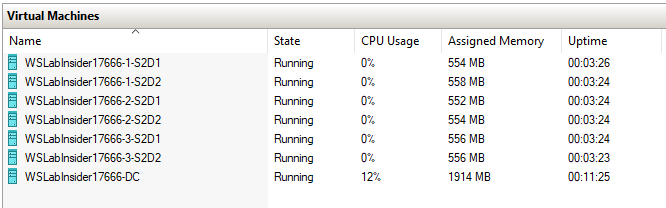
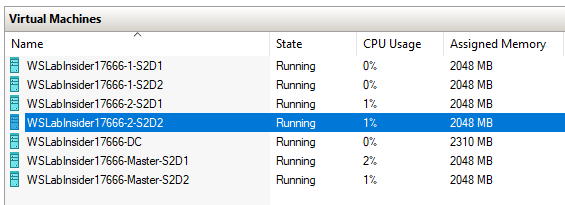
fix
Former-commit-id: 5f70e320fceb376410757e5018534b965bc6aa56

diff --git a/Scenarios/S2D and Cluster Sets/readme.md b/Scenarios/S2D and Cluster Sets/readme.md
@@ -21,9 +21,9 @@ Note: Nested virtualization is commented (it slows down the environment)
 $LabConfig=@{ DomainAdminName='LabAdmin'; AdminPassword='LS1setup!'; Prefix = 'WSLabInsider17666-'; SwitchName = 'LabSwitch'; DCEdition='4'; PullServerDC=$false ; Internet=$false ;AdditionalNetworksConfig=@(); VMs=@(); ServerVHDs=@()}
 
 #HyperConverged Clusters
-1..2 | ForEach-Object {$VMNames="1-S2D"; $LABConfig.VMs += @{ VMName = "$VMNames$_" ; Configuration = 'S2D' ; ParentVHD = 'Win2019Core_17666.vhdx'; SSDNumber = 0; SSDSize=800GB ; HDDNumber = 12; HDDSize= 4TB ; MemoryStartupBytes= 2GB ; Unattend='DjoinCred' ; <#NestedVirt=$True#>}}
-1..2 | ForEach-Object {$VMNames="2-S2D"; $LABConfig.VMs += @{ VMName = "$VMNames$_" ; Configuration = 'S2D' ; ParentVHD = 'Win2019Core_17666.vhdx'; SSDNumber = 0; SSDSize=800GB ; HDDNumber = 12; HDDSize= 4TB ; MemoryStartupBytes= 2GB ; Unattend='DjoinCred'; <#NestedVirt=$True#>}}
-1..2 | ForEach-Object {$VMNames="3-S2D"; $LABConfig.VMs += @{ VMName = "$VMNames$_" ; Configuration = 'S2D' ; ParentVHD = 'Win2019Core_17666.vhdx'; SSDNumber = 0; SSDSize=800GB ; HDDNumber = 12; HDDSize= 4TB ; MemoryStartupBytes= 2GB ; Unattend='DjoinCred'; <#NestedVirt=$True#>}}
+1..2 | ForEach-Object {$VMNames="Master-S2D"; $LABConfig.VMs += @{ VMName = "$VMNames$_" ; Configuration = 'S2D' ; ParentVHD = 'Win2019Core_17666.vhdx'; SSDNumber = 0; SSDSize=800GB ; HDDNumber = 12; HDDSize= 4TB ; MemoryStartupBytes= 2GB ; Unattend='DjoinCred' ; <#NestedVirt=$True#>}}
+1..2 | ForEach-Object {$VMNames="1-S2D"; $LABConfig.VMs += @{ VMName = "$VMNames$_" ; Configuration = 'S2D' ; ParentVHD = 'Win2019Core_17666.vhdx'; SSDNumber = 0; SSDSize=800GB ; HDDNumber = 12; HDDSize= 4TB ; MemoryStartupBytes= 2GB ; Unattend='DjoinCred'; NestedVirt=$True}}
+1..2 | ForEach-Object {$VMNames="2-S2D"; $LABConfig.VMs += @{ VMName = "$VMNames$_" ; Configuration = 'S2D' ; ParentVHD = 'Win2019Core_17666.vhdx'; SSDNumber = 0; SSDSize=800GB ; HDDNumber = 12; HDDSize= 4TB ; MemoryStartupBytes= 2GB ; Unattend='DjoinCred'; NestedVirt=$True}}
  
 $LabConfig.ServerVHDs += @{
     Edition="4"
@@ -48,9 +48,9 @@ Run following code to create 3 HyperConverged clusters. Note: it's way simplifie
 #Labconfig
     #clusterconfig
     $Clusters=@()
-    $Clusters+=@{Nodes="1-S2D1","1-S2D2" ; Name="Cluster1" ; IP="10.0.0.211" ; Volumenames="CL1Mirror1","CL1Mirror2" ; VolumeSize=2TB}
-    $Clusters+=@{Nodes="2-S2D1","2-S2D2" ; Name="Cluster2" ; IP="10.0.0.212" ; Volumenames="CL2Mirror1","CL2Mirror2" ; VolumeSize=2TB}
-    $Clusters+=@{Nodes="3-S2D1","3-S2D2" ; Name="Cluster3" ; IP="10.0.0.213" ; Volumenames="CL3Mirror1","CL3Mirror2" ; VolumeSize=2TB}
+    $Clusters+=@{Nodes="Master-S2D1","Master-S2D2" ; Name="MasterCluster" ; IP="10.0.0.211" ; Volumenames="MCMirror1","MCMirror2" ; VolumeSize=2TB}
+    $Clusters+=@{Nodes="1-S2D1","1-S2D2" ; Name="Cluster1" ; IP="10.0.0.212" ; Volumenames="CL1Mirror1","CL1Mirror2" ; VolumeSize=2TB}
+    $Clusters+=@{Nodes="2-S2D1","2-S2D2" ; Name="Cluster2" ; IP="10.0.0.213" ; Volumenames="CL2Mirror1","CL2Mirror2" ; VolumeSize=2TB}
 
     #ask for parent vhdx (choose nanoserver preferably - it's small)
         [reflection.assembly]::loadwithpartialname("System.Windows.Forms")
@@ -79,7 +79,7 @@ Run following code to create 3 HyperConverged clusters. Note: it's way simplifie
         Install-WindowsFeature -Name "Failover-Clustering","Hyper-V-PowerShell","Hyper-V","Failover-Clustering"
     }
 
-#reboot servers
+#reboot servers to finish Hyper-V install
     Restart-Computer $clusters.nodes -Protocol WSMan -Wait -For PowerShell
     start-sleep 20 #failsafe
 
@@ -120,7 +120,7 @@ Run following code to create 3 HyperConverged clusters. Note: it's way simplifie
         $VMName="$($Cluster.Name)_VM1"
         $VolumeName=$Cluster.VolumeNames[0]
         New-Item -Path "\\$($Cluster.Name)\ClusterStorage$\$VolumeName\$VMName\Virtual Hard Disks" -ItemType Directory
-        Copy-Item -Path $VHDPath -Destination "\\$($Cluster.Name)\ClusterStorage$\$($Volumenames[0])\$VMName\Virtual Hard Disks\$($VMName)_Disk1.vhdx"
+        Copy-Item -Path $VHDPath -Destination "\\$($Cluster.Name)\ClusterStorage$\$VolumeName\$VMName\Virtual Hard Disks\$($VMName)_Disk1.vhdx"
         New-VM -Name $VMName -MemoryStartupBytes 256MB -Generation 2 -Path "c:\ClusterStorage\$VolumeName" -VHDPath "c:\ClusterStorage\$VolumeName\$VMName\Virtual Hard Disks\$($VMName)_Disk1.vhdx" -ComputerName $Cluster.Nodes[0]
         #Start-VM -name $VMName -ComputerName $Cluster.Nodes[0]
         Add-ClusterVirtualMachineRole -VMName $VMName -Cluster $Cluster.Name
@@ -130,7 +130,7 @@ Run following code to create 3 HyperConverged clusters. Note: it's way simplifie
         New-Item -Path "\\$($Cluster.Name)\ClusterStorage$\$VolumeName\$VMName\Virtual Hard Disks" -ItemType Directory
         Copy-Item -Path $VHDPath -Destination "\\$($Cluster.Name)\ClusterStorage$\$VolumeName\$VMName\Virtual Hard Disks\$($VMName)_Disk1.vhdx"
         New-VM -Name $VMName -MemoryStartupBytes 256MB -Generation 2 -Path "c:\ClusterStorage\$VolumeName" -VHDPath "c:\ClusterStorage\$VolumeName\$VMName\Virtual Hard Disks\$($VMName)_Disk1.vhdx" -ComputerName $Cluster.Nodes[1]
-        #Start-VM -name $VMName -ComputerName $Cluster.Nodes[0]
+        Start-VM -name $VMName -ComputerName $Cluster.Nodes[0]
         Add-ClusterVirtualMachineRole -VMName $VMName -Cluster $Cluster.Name
     }
  
@@ -144,13 +144,37 @@ In following lab will be 3 clusters. 2 Clusters contain storage (Storage Spaces 
 
 ## The Lab
 
-Let's create Cluster Set master on Cluster1 and let's add Cluster2 and Cluster3
+Let's create Cluster Set master on "MasterCluster"
 
 ````PowerShell
-New-ClusterSet -name MyClusterSet -NamespaceRoot CL1-SOFS -CimSession Cluster1
-Add-ClusterSetMember -ClusterName Cluster2 -CimSession MyClusterSet -InfraSOFSName CL2-SOFS
-Add-ClusterSetMember -ClusterName Cluster3 -CimSession MyClusterSet -InfraSOFSName CL3-SOFS
+New-ClusterSet -name MyClusterSet -NamespaceRoot MC-SOFS -CimSession MasterCluster -StaticAddress "10.0.0.210"
  
 ````
 
 ![](/Scenarios/S2D%20and%20Cluster%20Sets/Screenshots/ClusterSetCreated.png)
+
+![](/Scenarios/S2D%20and%20Cluster%20Sets/Screenshots/ScaleoutMaster.png)
+
+![](/Scenarios/S2D%20and%20Cluster%20Sets/Screenshots/InfraFS.png)
+
+And let's add Cluster1 and Cluster2
+
+````PowerShell
+Add-ClusterSetMember -ClusterName Cluster1 -CimSession MyClusterSet -InfraSOFSName CL1-SOFS
+Add-ClusterSetMember -ClusterName Cluster2 -CimSession MyClusterSet -InfraSOFSName CL2-SOFS
+ 
+````
+
+![](/Scenarios/S2D%20and%20Cluster%20Sets/Screenshots/ClusterMembersAdded.png)
+
+![](/Scenarios/S2D%20and%20Cluster%20Sets/Screenshots/InfraFSCl1.png)
+
+![](/Scenarios/S2D%20and%20Cluster%20Sets/Screenshots/ScaleoutWorker.png)
+
+As you can see, all shares are visible in \\MC-SOFS path
+
+![](/Scenarios/S2D%20and%20Cluster%20Sets/Screenshots/MC-SOFS.png)
+
+
+
+
